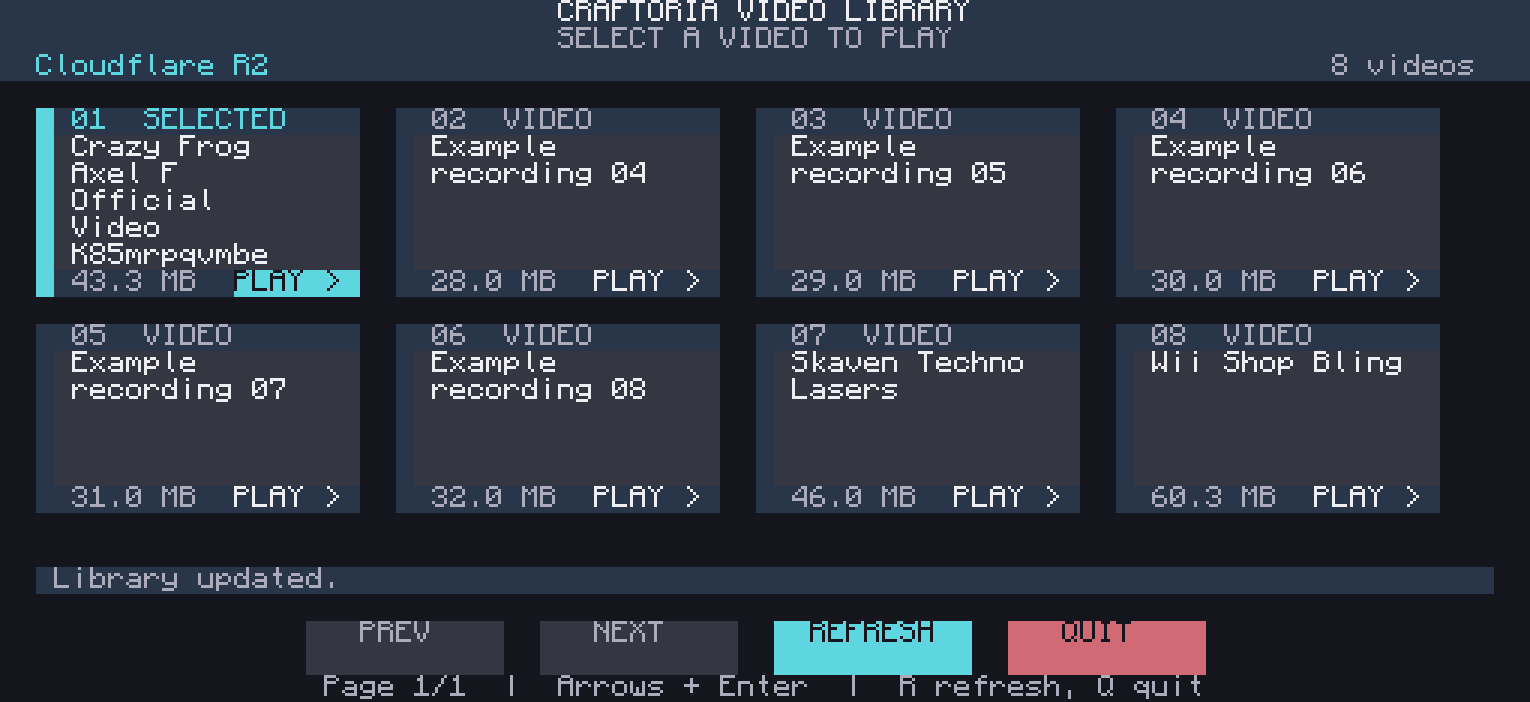
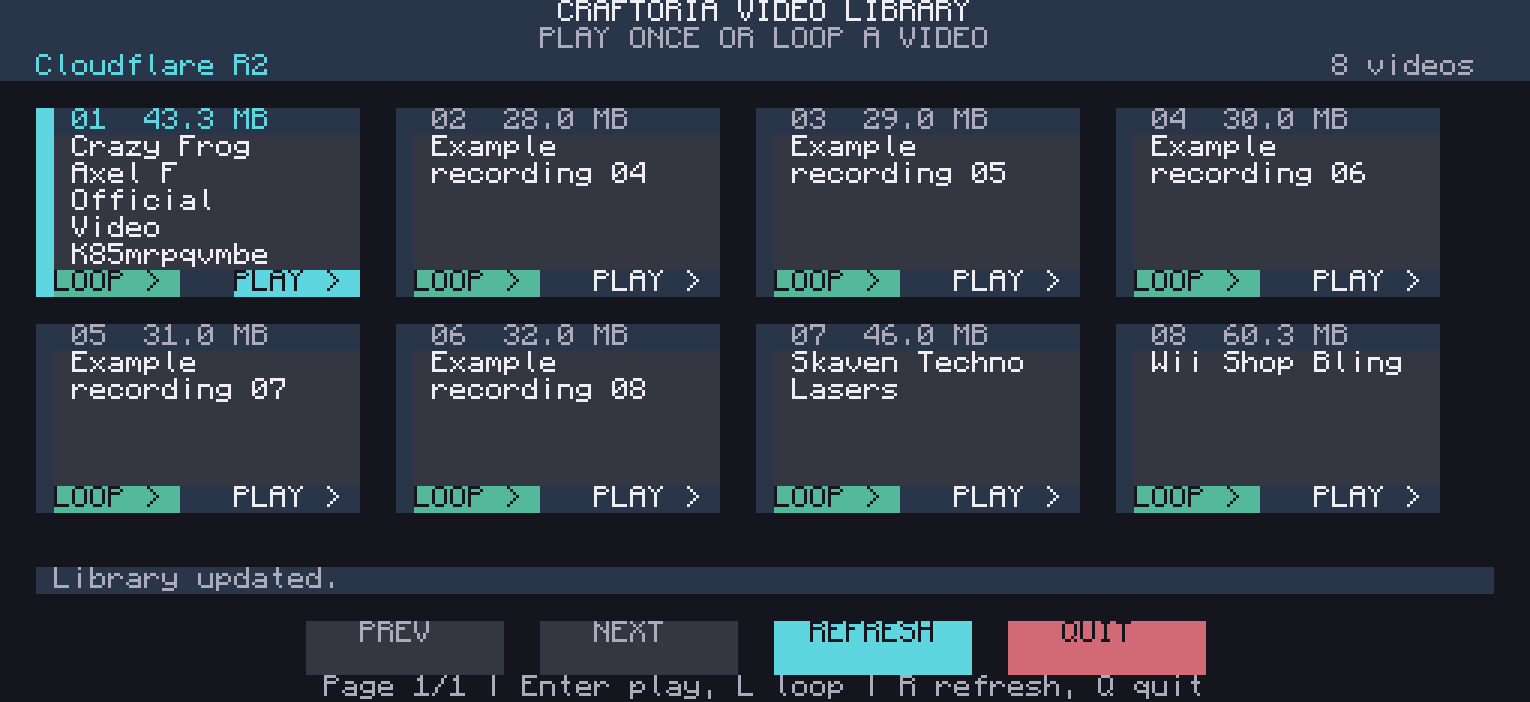
feat: add per-video loop playback controls

diff --git a/README.md b/README.md
@@ -7,29 +7,31 @@ A CC:Tweaked video player for a **7-wide x 4-high Advanced Monitor wall**, with 
 Stop the existing player with Ctrl+T. Download the updated script to a fresh filename and launch it directly:
 
 ```text
-wget https://raw.githubusercontent.com/Mavial/craftoria-video-player/main/video.lua video-grid.lua
-video-grid.lua
+wget https://raw.githubusercontent.com/Mavial/craftoria-video-player/main/video.lua video-loop.lua
+video-loop.lua
 ```
 
-Choose an unused filename if `video-grid.lua` already exists. The player discovers directly attached and wired-network Advanced Monitors and chooses the largest wall that fits the current 143x52-character recordings. It uses text scale **1.0 for the menu** when the display has enough room, and switches to **0.5 for playback** to preserve the recording's full resolution. Smaller screens use a compact menu at 0.5, with a clear size error if a recording does not fit. With no Advanced Monitor connected, the menu stays on the computer for keyboard use. The R2 catalogue URL is already configured.
+Choose an unused filename if `video-loop.lua` already exists. The player discovers directly attached and wired-network Advanced Monitors and chooses the largest wall that fits the current 143x52-character recordings. It uses text scale **1.0 for the menu** when the display has enough room, and switches to **0.5 for playback** to preserve the recording's full resolution. Smaller screens use a compact menu at 0.5, with a clear size error if a recording does not fit. With no Advanced Monitor connected, the menu stays on the computer for keyboard use. The R2 catalogue URL is already configured.
 
-If several displays are connected and you want a particular wall, run `set video.monitor monitor_5` with its peripheral name, then launch the player. Use `set video.monitor nil` to return to automatic selection. The old `monitor MONITOR_NAME video-grid.lua` command still works, keeps its explicitly chosen monitor, and configures its scale automatically. Quit, errors and Ctrl+T restore the previous terminal. Touches on other monitors and mouse clicks in the computer GUI do not control an automatically selected wall.
+If several displays are connected and you want a particular wall, run `set video.monitor monitor_5` with its peripheral name, then launch the player. Use `set video.monitor nil` to return to automatic selection. The old `monitor MONITOR_NAME video-loop.lua` command still works, keeps its explicitly chosen monitor, and configures its scale automatically. Quit, errors and Ctrl+T restore the previous terminal. Touches on other monitors and mouse clicks in the computer GUI do not control an automatically selected wall.
 
 To run at computer boot, copy the player to an unused startup filename:
 
 ```text
-copy video-grid.lua startup.lua
+copy video-loop.lua startup.lua
 ```
 
-If this computer already has a startup script, use `shell.run("video-grid.lua")` in that script instead. If you previously copied the whole old player into `startup.lua`, replace that player copy with the updated version.
+If this computer already has a startup script, use `shell.run("video-loop.lua")` in that script instead. If you previously copied the whole old player into `startup.lua`, replace that player copy with the updated version.
 
-Tap anywhere on a video card to play, including its header, title, size label or PLAY area. The SCADA-inspired menu uses dark panels and cyan selection accents, with **six cards per page in a 3x2 grid on the 7x4 wall**. Wider displays fit four columns (eight cards at the same height), and a standard computer uses two columns. Long titles wrap within each card. Previous, Next, Refresh and Quit are compact buttons, two character rows tall and at most eleven columns wide. Page buttons are disabled when there is no previous/next page; spaces between cards and empty cells do not start playback. The layout adapts to smaller screens and monitor resizing.
+Tap **PLAY** or a card's header/title to play once. Tap its green **LOOP** button to repeat that recording until stopped. The header shows the file size, and the cyan accent marks the selected card. The SCADA-inspired menu uses dark panels, with **six cards per page in a 3x2 grid on the 7x4 wall**. Wider displays fit four columns (eight cards at the same height), and a standard computer uses two columns. Long titles wrap within each card. Previous, Next, Refresh and Quit are compact buttons, two character rows tall and at most eleven columns wide. Page buttons are disabled when there is no previous/next page; spaces between cards and empty cells do not start playback. The layout adapts to smaller screens and monitor resizing.
 
-Use arrow keys to move through the grid and Enter to play. Page Up/Page Down or the mouse wheel changes pages, R refreshes, and Q quits. Touch during playback or press Backspace to stop and return to the menu. Completed videos return automatically, with the larger menu scale and its palette restored.
+Use arrow keys to move through the grid, **Enter** to play once, or **L** to loop the selected video. Page Up/Page Down or the mouse wheel changes pages, R refreshes, and Q quits. Touch during playback or press Backspace to stop either mode and return to the menu. Once-only playback returns automatically when finished. The larger menu scale and its palette are restored after playback.
+
+Loops restart both picture and audio from the beginning with fresh decoder state. Each repeat downloads the recording again, so there can be a loading pause between passes. Touch/Backspace also stops while reloading or draining the last audio buffer. A failed download or invalid recording ends the loop and shows the error in the menu.
 
 ![Touch menu on a 7x4 monitor wall](previews/menu-7x4.png)
 
-This preview renders the actual Lua menu's character cells with the installed CC:Tweaked font and the three-recording catalogue; it is not an in-world screenshot. [Six-card](previews/menu-six-cards.png), [eight-card](previews/menu-eight-cards.png) and [compact computer](previews/menu-computer.png) previews are also available. The full-page previews add placeholder entries only for illustration; these examples are not uploaded to R2.
+This preview renders the actual Lua menu's character cells with the installed CC:Tweaked font and an example three-recording catalogue; it is not an in-world screenshot. [Six-card](previews/menu-six-cards.png), [eight-card](previews/menu-eight-cards.png) and [compact computer](previews/menu-computer.png) previews are also available. The full-page previews add placeholder entries only for illustration; these examples are not uploaded to R2.
 
 The menu lists the `.32vid` objects under `videos/` in the dedicated `craftoria-video-player` R2 bucket. A Cloudflare Worker builds the catalogue dynamically, follows R2 pagination, and streams recordings from the bucket. Upload or delete a converted recording in that prefix, then click Refresh to update the menu. Each card includes the file size. See [R2 deployment and upload instructions](r2/README.md).
 
@@ -37,10 +39,10 @@ HTTP access must allow `craftoria-video-player.raftoria.workers.dev`. The list l
 
 ## Play Wii Shop Bling
 
-Use the updated `video-grid.lua`; monitor discovery and scale setup are automatic:
+Use the updated `video-loop.lua`; monitor discovery and scale setup are automatic:
 
 ```text
-video-grid.lua https://craftoria-video-player.raftoria.workers.dev/videos/wii-shop-bling.32vid
+video-loop.lua https://craftoria-video-player.raftoria.workers.dev/videos/wii-shop-bling.32vid
 ```
 
 Hold Ctrl+T in the computer GUI to stop the previous recording before entering the new command. The new recording starts at the beginning; the YouTube radio playlist is not included.
@@ -48,7 +50,7 @@ Hold Ctrl+T in the computer GUI to stop the previous recording before entering t
 For a new computer, download the player first:
 
 ```text
-wget https://raw.githubusercontent.com/Mavial/craftoria-video-player/main/video.lua video-grid.lua
+wget https://raw.githubusercontent.com/Mavial/craftoria-video-player/main/video.lua video-loop.lua
 ```
 
 The ten-second test clip has been removed from R2 and GitHub; click Refresh in the menu to update the list.
@@ -75,7 +77,7 @@ The current R2 recordings use **24-30 FPS**, 286x156 subpixels (143 columns x 52
 
 Use 28 joined Advanced Monitors, one dedicated Advanced Computer and one connected Speaker. The computer may touch the wall directly or connect over wired modems and Networking Cable. HTTP playback avoids writing the full recording to the computer disk. The server must permit the configured R2 Worker hostname.
 
-The current higher frame rate recordings are hosted on R2. The GitHub v1.1.0 release retains the original 7 FPS Wii recording; its root `manifest.json` and `verification.json` describe that historical version. Test clips were removed from hosting. Current R2 conversion, checksum and simulated playback results are under `recordings/`. `menu-verification.json` records checks using the installed CC:Tweaked scheduler and monitor program with simulated peripherals and catalogues: six/eight-card grids, sparse final pages, spatial keyboard navigation, full card/button touch targets, automatic monitor selection, menu/playback scale switching, responsive layout bounds, resize handling, touch isolation, terminal restoration, pinned displays, legacy launches, disconnection/termination cleanup, keyboard selection, pagination, refresh, errors, stopping, replay and audio state. The Worker checks cover catalogue pagination, exact download bytes, metadata, and route restrictions. The R2 menu, playback and automatic monitor startup were confirmed working in-world by the user; the compact grid layout was checked with simulated peripherals and rendered for visual review.
+The current higher frame rate recordings are hosted on R2. The GitHub v1.1.0 release retains the original 7 FPS Wii recording; its root `manifest.json` and `verification.json` describe that historical version. Test clips were removed from hosting. Current R2 conversion, checksum and simulated playback results are under `recordings/`. `menu-verification.json` records checks using the installed CC:Tweaked scheduler and monitor program with simulated peripherals and catalogues: loop button targeting, two complete repeat passes, decoder resets, stopping during audio drain/reload, loop errors and termination, six/eight-card grids, sparse final pages, spatial keyboard navigation, full card/button touch targets, automatic monitor selection, menu/playback scale switching, responsive layout bounds, resize handling, touch isolation, terminal restoration, pinned displays, legacy launches, disconnection/termination cleanup, keyboard selection, pagination, refresh, errors, stopping, replay and audio state. The Worker checks cover catalogue pagination, exact download bytes, metadata, and route restrictions. The R2 menu, playback and automatic monitor startup were confirmed working in-world by the user; the compact grid layout was checked with simulated peripherals and rendered for visual review.
 
 ## Upstream and licensing
 
